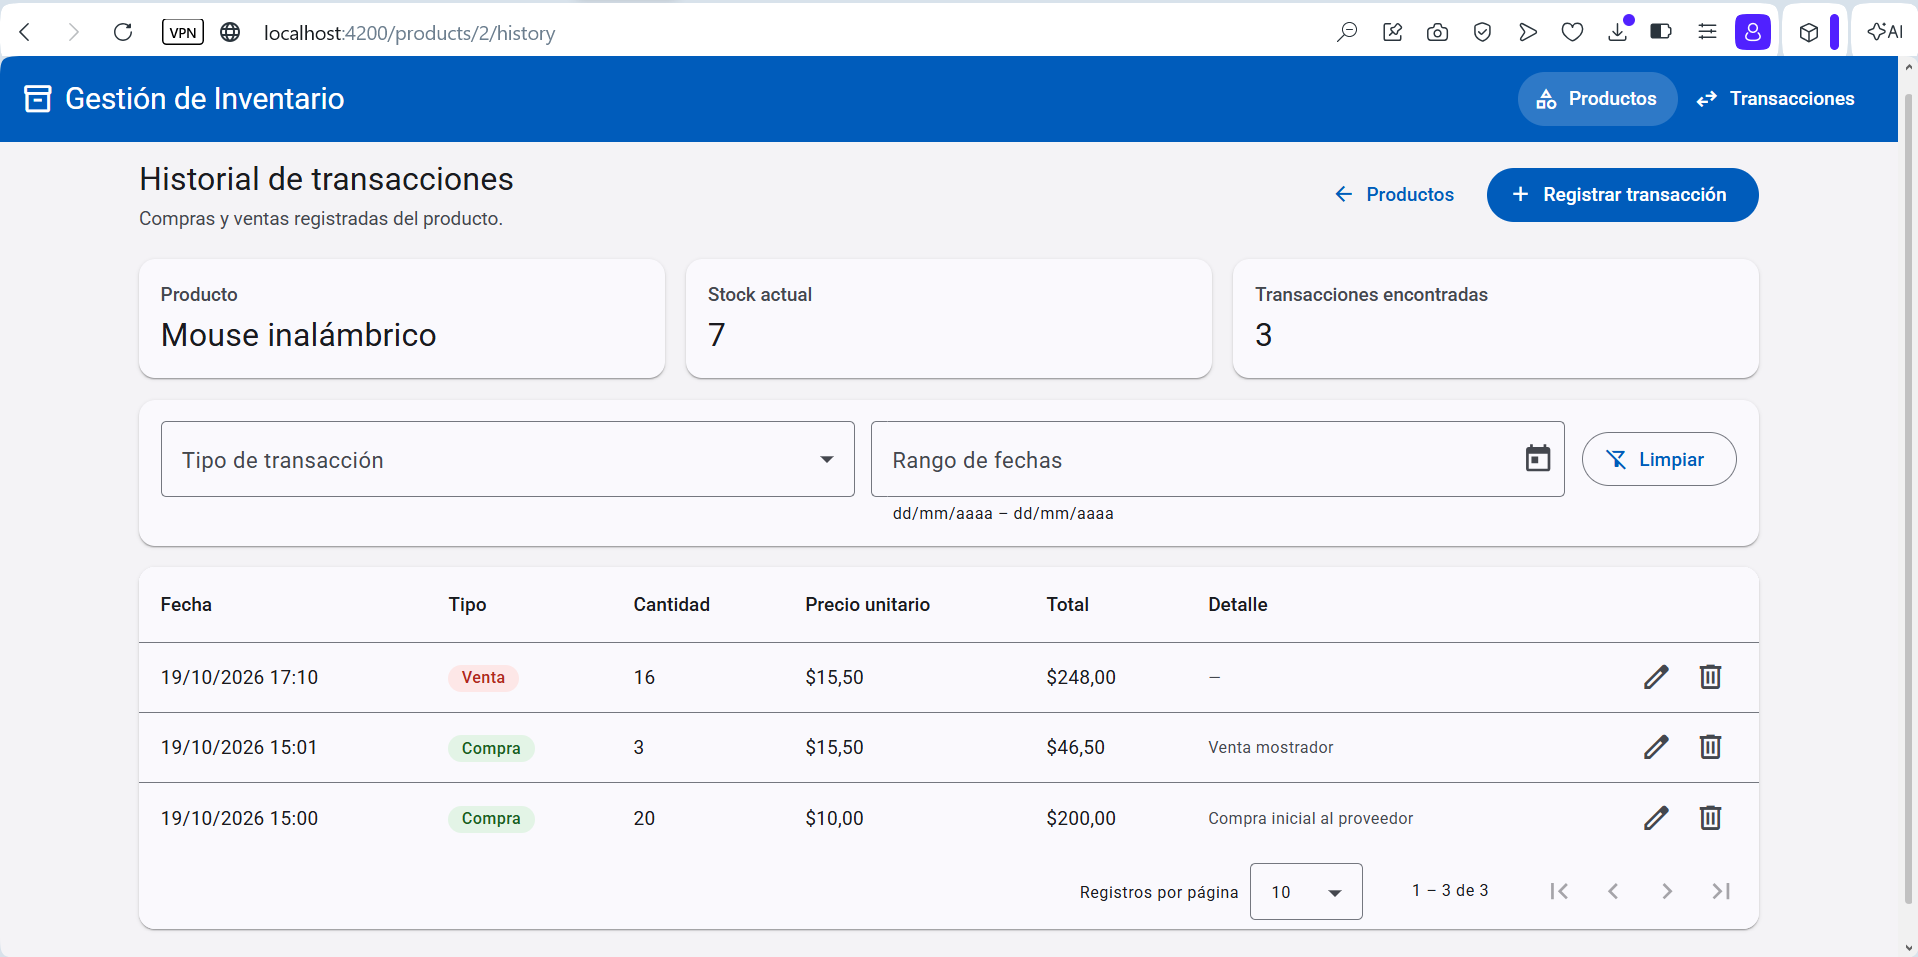
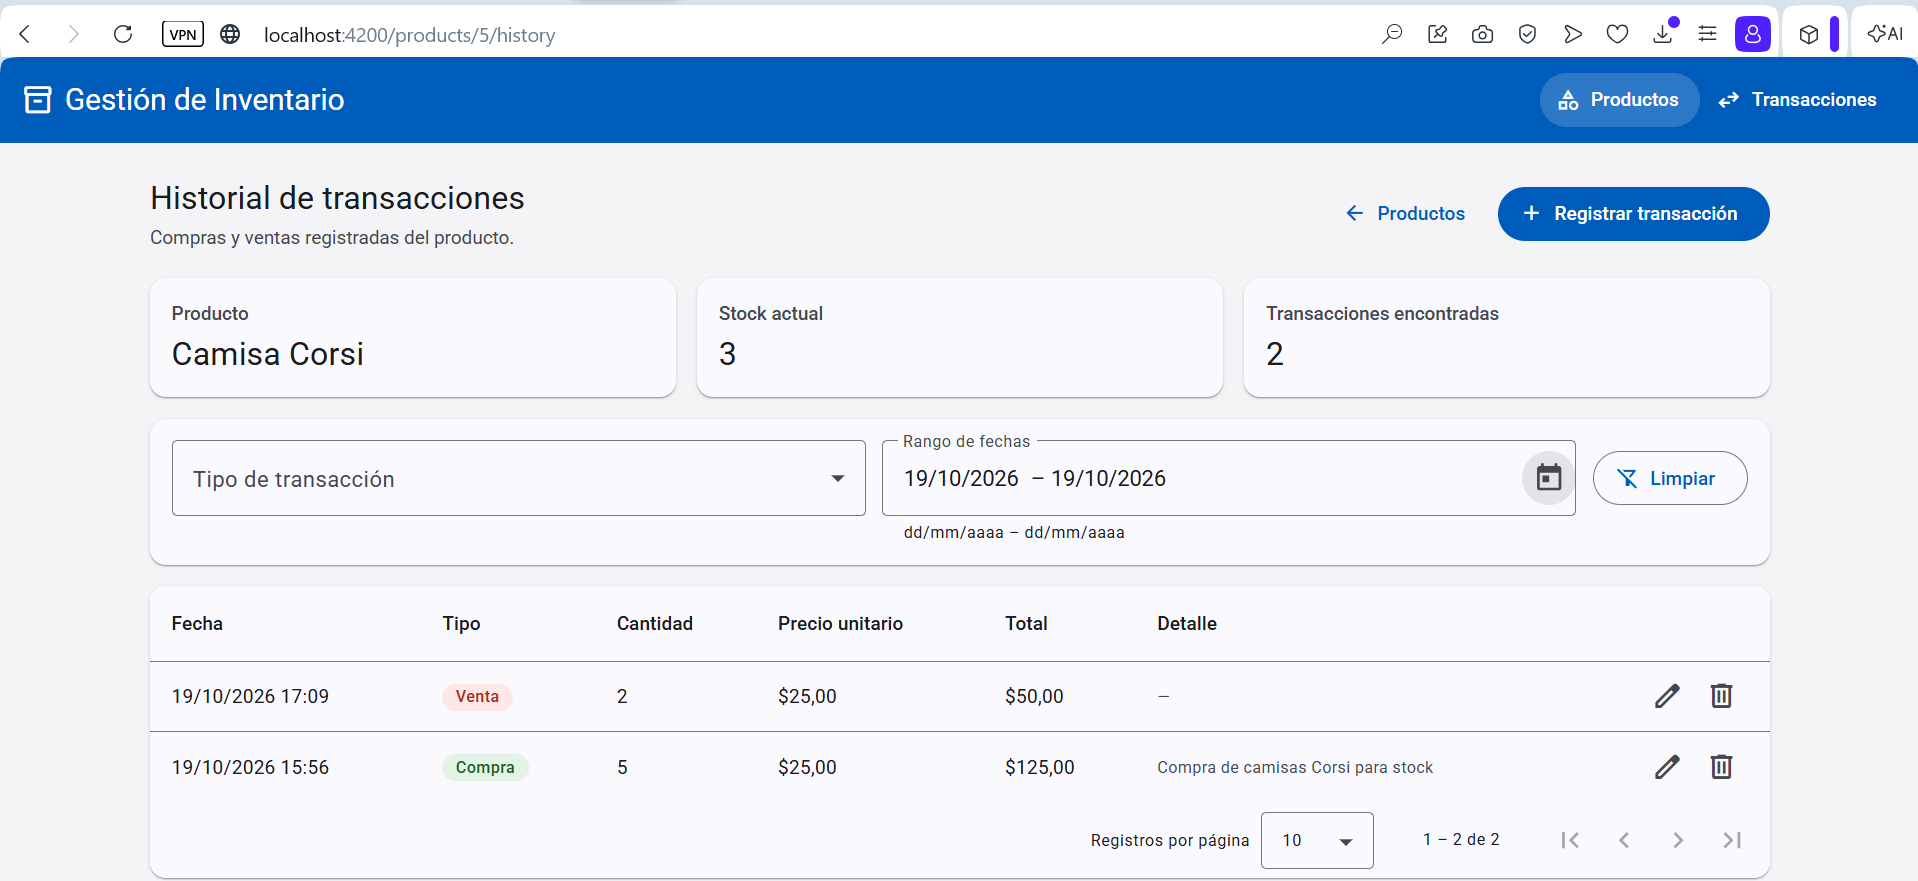
docs: add readme with setup instructions and evidence

diff --git a/README.md b/README.md
@@ -1,0 +1,269 @@
+# Sistema de Gestión de Inventario
+
+Aplicación web para gestionar productos y registrar movimientos de inventario (compras y ventas), construida con una arquitectura de microservicios en **.NET 10**, un frontend en **Angular 22** y **SQL Server**.
+
+Permite crear, editar, consultar y eliminar productos; registrar compras y ventas con validación de stock; y consultar el historial de transacciones de cada producto con filtros dinámicos.
+
+## Contenido
+
+- [Arquitectura](#arquitectura)
+- [Tecnologías](#tecnologías)
+- [Estructura del repositorio](#estructura-del-repositorio)
+- [Requisitos](#requisitos)
+- [Base de datos](#base-de-datos)
+- [Ejecución del backend](#ejecución-del-backend)
+- [Ejecución del frontend](#ejecución-del-frontend)
+- [API](#api)
+- [Reglas de negocio](#reglas-de-negocio)
+- [Evidencias](#evidencias)
+
+## Arquitectura
+
+```
+                 ┌──────────────────────────┐
+                 │  Frontend Angular (4200) │
+                 └─────┬──────────────┬─────┘
+                       │ REST         │ REST
+                       ▼              ▼
+          ┌─────────────────┐   ┌──────────────────────┐
+          │  Products.Api   │◄──│  Transactions.Api    │
+          │     (5001)      │   │       (5002)         │
+          └────────┬────────┘   └──────────┬───────────┘
+                   │  REST síncrono:        │
+                   │  validar y ajustar     │
+                   │  stock                 │
+                   ▼                        ▼
+       InventoryProductsDb       InventoryTransactionsDb
+```
+
+- **Database per Service**: cada microservicio es dueño exclusivo de su base de datos. Ninguno accede a las tablas del otro.
+- **Comunicación síncrona por REST**: Transactions.Api llama a Products.Api para validar y ajustar el stock. La dependencia va en una sola dirección.
+- **Capas en cada servicio**: `Controller → Service → Repository → DbContext`.
+  - Los controllers solo manejan HTTP.
+  - Los servicios contienen las reglas de negocio.
+  - Los repositorios, el acceso a datos.
+
+## Tecnologías
+
+| Capa | Tecnología |
+|---|---|
+| Backend | .NET 10, ASP.NET Core Web API, Entity Framework Core 10 |
+| Base de datos | SQL Server |
+| Frontend | Angular 22 (standalone, signals, zoneless), Angular Material 22 |
+| Documentación de la API | OpenAPI + Swagger UI |
+
+## Estructura del repositorio
+
+```
+inventory-management/
+├── database.sql                  # Script de creación de las bases de datos
+├── backend/
+│   ├── InventoryManagement.slnx  # Solución con ambos microservicios
+│   ├── Products.Api/             # Microservicio de productos
+│   └── Transactions.Api/         # Microservicio de transacciones
+├── frontend/                     # Aplicación Angular
+└── docs/screenshots/             # Capturas de la aplicación
+```
+
+Cada microservicio se organiza en:
+
+| Carpeta | Contenido |
+|---|---|
+| `Controllers` | Endpoints REST |
+| `Services` | Lógica de negocio |
+| `Repositories` | Consultas con EF Core |
+| `Entities` | Clases que mapean las tablas |
+| `Dtos` | Contratos de entrada y salida de la API |
+| `Data` | DbContext y configuración de las tablas |
+| `Middleware` | Manejo global de errores |
+| `Clients` | Cliente HTTP hacia Products.Api (solo en Transactions.Api) |
+
+## Requisitos
+
+| Herramienta | Versión |
+|---|---|
+| [.NET SDK](https://dotnet.microsoft.com/download) | 10.0 o superior |
+| SQL Server | 2019 o superior (Express o Developer) |
+| [Node.js](https://nodejs.org/) | 22.22 o superior, o 24 LTS |
+| Angular CLI | 22 (`npm install -g @angular/cli`) |
+| SQL Server Management Studio | Opcional, para ejecutar el script |
+
+Puertos utilizados: **5001** (Products.Api), **5002** (Transactions.Api) y **4200** (frontend).
+
+## Base de datos
+
+El script [`database.sql`](database.sql), en la raíz del repositorio, crea las dos bases de datos con sus tablas, restricciones, índices y las categorías iniciales.
+
+| Base de datos | Tablas |
+|---|---|
+| `InventoryProductsDb` | `Categories`, `Products` |
+| `InventoryTransactionsDb` | `Transactions` |
+
+Para crearlas:
+
+1. Abrir SQL Server Management Studio y conectarse al servidor local.
+2. Abrir `database.sql` y ejecutarlo (F5).
+
+O desde la línea de comandos:
+
+```powershell
+sqlcmd -S localhost -E -i database.sql
+```
+
+## Ejecución del backend
+
+### 1. Configurar la conexión
+
+Por defecto, ambos servicios se conectan a `localhost` con autenticación de Windows. Si se usa otro servidor o autenticación de SQL Server, hay que ajustar `ConnectionStrings` en el `appsettings.json` de cada proyecto:
+
+```json
+"ConnectionStrings": {
+  "ProductsDb": "Server=localhost;Database=InventoryProductsDb;User Id=sa;Password=TuPassword;TrustServerCertificate=True"
+}
+```
+
+En `Transactions.Api`, la clave es `TransactionsDb`, y la URL de Products.Api se configura en `Services:ProductsApi`.
+
+### 2. Ejecutar
+
+**Opción A: Visual Studio**
+
+1. Abrir `backend/InventoryManagement.slnx`.
+2. Seleccionar el perfil de inicio que arranca ambos proyectos (configurado como "Varios proyectos de inicio").
+3. Ejecutar con **Ctrl + F5**.
+
+**Opción B: línea de comandos** (una terminal para cada servicio, iniciando primero Products.Api)
+
+```powershell
+cd backend
+dotnet run --project Products.Api --launch-profile http
+```
+
+```powershell
+cd backend
+dotnet run --project Transactions.Api --launch-profile http
+```
+
+### 3. Verificar
+
+| Servicio | Swagger UI | Prueba rápida |
+|---|---|---|
+| Products.Api | http://localhost:5001/swagger | http://localhost:5001/api/categories |
+| Transactions.Api | http://localhost:5002/swagger | http://localhost:5002/api/transactions |
+
+Cada proyecto incluye además un archivo `.http` (`Products.Api.http` y `Transactions.Api.http`) con peticiones de prueba listas para ejecutar desde Visual Studio.
+
+## Ejecución del frontend
+
+Con el backend en ejecución:
+
+```powershell
+cd frontend
+npm install
+ng serve
+```
+
+Abrir **http://localhost:4200**.
+
+Las URLs de las APIs se configuran en `frontend/src/environments/environment.ts`.
+
+Para ejecutar las pruebas unitarias:
+
+```powershell
+ng test
+```
+
+## API
+
+### Products.Api — `http://localhost:5001`
+
+| Método | Ruta | Descripción |
+|---|---|---|
+| GET | `/api/products` | Listado paginado. Filtros: `name`, `categoryId`, `minPrice`, `maxPrice`, `page`, `pageSize` |
+| GET | `/api/products/{id}` | Detalle de un producto (`?includeInactive=true` incluye eliminados) |
+| POST | `/api/products` | Crear producto |
+| PUT | `/api/products/{id}` | Editar producto |
+| DELETE | `/api/products/{id}` | Eliminar producto (eliminado lógico) |
+| PATCH | `/api/products/{id}/stock` | Ajustar stock (uso interno de Transactions.Api) |
+| GET | `/api/categories` | Listado de categorías |
+
+### Transactions.Api — `http://localhost:5002`
+
+| Método | Ruta | Descripción |
+|---|---|---|
+| GET | `/api/transactions` | Listado paginado. Filtros: `productId`, `type`, `from`, `to`, `page`, `pageSize` |
+| GET | `/api/transactions/history/{productId}` | Historial de un producto, con su nombre y stock actual |
+| GET | `/api/transactions/{id}` | Detalle de una transacción |
+| POST | `/api/transactions` | Registrar compra o venta |
+| PUT | `/api/transactions/{id}` | Editar transacción (recalcula el stock) |
+| DELETE | `/api/transactions/{id}` | Eliminar transacción (revierte su efecto en el stock) |
+
+Los errores se devuelven en formato **ProblemDetails** (RFC 9457):
+
+| Código | Significado |
+|---|---|
+| 400 | Datos inválidos |
+| 404 | Recurso no encontrado |
+| 409 | Stock insuficiente o conflicto de concurrencia |
+| 503 | Products.Api no disponible |
+
+## Reglas de negocio
+
+- **Validación de stock**: una venta no puede superar el stock disponible. El frontend lo advierte antes de enviar, y el backend lo garantiza con un `UPDATE` atómico (`WHERE Stock + delta >= 0`) que evita condiciones de carrera entre ventas simultáneas.
+- **Ajuste automático de stock**: cada transacción tiene un efecto sobre el stock (+cantidad en compras, −cantidad en ventas).
+  - Al **crear**, se aplica ese efecto.
+  - Al **editar**, se aplica la diferencia: efecto nuevo − efecto anterior.
+  - Al **eliminar**, se revierte.
+- **Compensación entre servicios**: no existe una transacción SQL que abarque dos bases de datos. Por eso, primero se ajusta el stock en Products.Api y luego se guarda la transacción. Si el guardado falla, se aplica el ajuste inverso para dejar el stock como estaba.
+- **Eliminado lógico de productos**: un producto eliminado deja de estar disponible para operar, pero su historial de transacciones se conserva y se puede consultar en modo de solo lectura.
+- **Integridad del historial**:
+  - Cada transacción guarda el precio unitario del momento.
+  - El total lo calcula la base de datos (columna calculada).
+  - El producto de una transacción no se puede cambiar al editarla.
+
+## Evidencias
+
+### Listado de productos con paginación
+![Listado de productos](docs/screenshots/01-listado-productos.png)
+
+### Filtros dinámicos de productos
+![Filtros de productos](docs/screenshots/02-filtros-productos.png)
+
+### Validaciones en el formulario de producto
+![Validaciones de producto](docs/screenshots/03-validaciones-producto.png)
+
+### Creación de productos
+![Crear producto](docs/screenshots/04-crear-producto.png)
+
+### Edición de productos
+![Editar producto](docs/screenshots/05-editar-producto.png)
+
+![Producto actualizado](docs/screenshots/06-producto-actualizado.png)
+
+### Consulta de información de un producto
+![Detalle de producto](docs/screenshots/07-detalle-producto.png)
+
+### Creación de transacciones
+![Crear transacción](docs/screenshots/08-crear-transaccion.png)
+
+### Validación de stock disponible
+![Validación de stock](docs/screenshots/09-validacion-stock.png)
+
+### Edición de transacciones
+![Editar transacción](docs/screenshots/10-editar-transaccion.png)
+
+### Listado de transacciones con paginación
+![Listado de transacciones](docs/screenshots/11-listado-transacciones.png)
+
+### Historial de transacciones por producto con filtros
+![Historial de producto](docs/screenshots/12-historial-producto.png)
+
+### Eliminación de transacciones
+![Eliminar transacción](docs/screenshots/13-eliminar-transaccion.png)
+
+![Transacción eliminada](docs/screenshots/14-transaccion-eliminada.png)
+
+### Eliminación de productos
+![Eliminar producto](docs/screenshots/15-eliminar-producto.png)
+
+![Producto eliminado](docs/screenshots/16-producto-eliminado.png)
